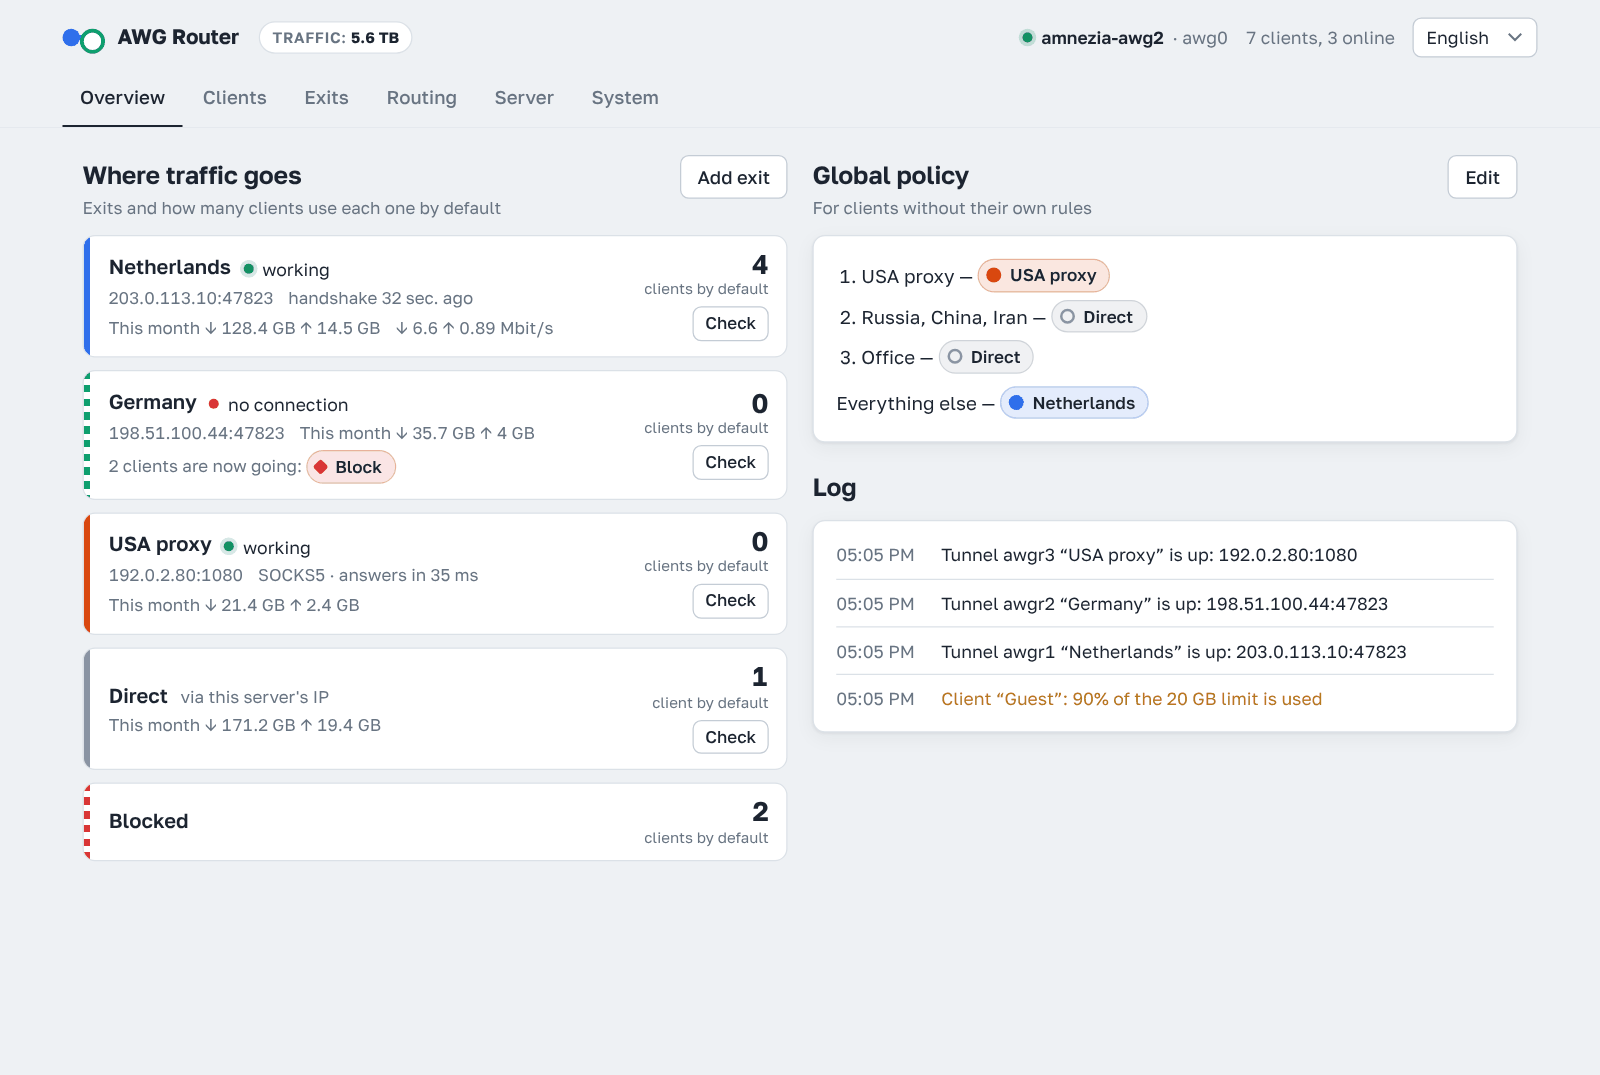
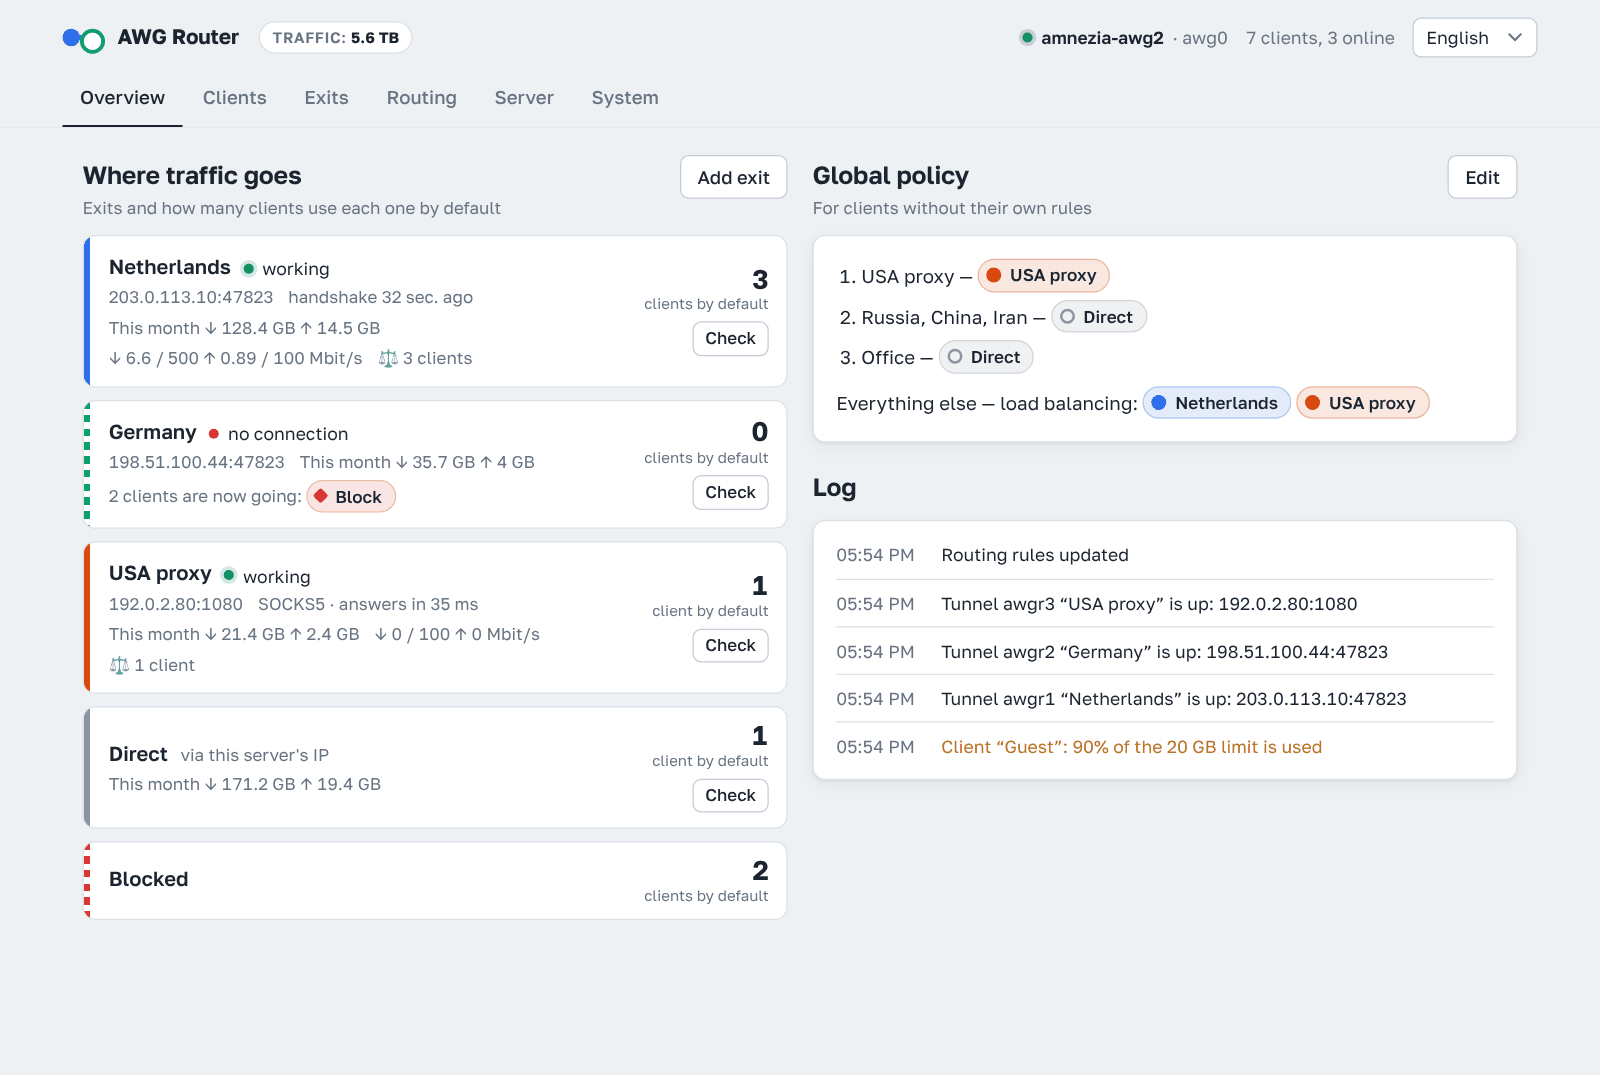
README screenshots show load balancing and speed limits
The screenshot demo set now balances across exits (Germany is down in the
demo and shows as such), gives Netherlands and the USA proxy speed limits,
gives Guest a personal limit and sets a common client limit. All frames are
regenerated with tools/screenshots/make.py; image captions in en / ru / zh /
fa mention the new parts.

diff --git a/tools/screenshots/make.py b/tools/screenshots/make.py
@@ -140,17 +140,19 @@ def build(api: Api) -> dict:
         return re.sub(r"(?m)^Endpoint\s*=.*$", f"Endpoint = {endpoint}", c)
 
     nl = api("POST", "upstreams", {"name": "Netherlands", "config": awg("10.9.0.2/32", "203.0.113.10:47823"),
-                                   "fallback": "direct", "quota_gb": 1000, "quota_action": "direct"})["id"]
+                                   "fallback": "direct", "quota_gb": 1000, "quota_action": "direct",
+                                   "rate_down": 500, "rate_up": 100})["id"]
     de = api("POST", "upstreams", {"name": "Germany", "config": awg("10.7.0.5/32", "198.51.100.44:47823"),
                                    "fallback": "block", "quota_gb": 300, "quota_action": "notify"})["id"]
     us = api("POST", "upstreams", {"name": "USA proxy", "config": "socks5://alice:wonderland@192.0.2.80:1080",
-                                   "fallback": "up:" + nl,
+                                   "fallback": "up:" + nl, "rate_down": 100,
                                    "routing": {"domains": "chatgpt.com\nopenai.com\nclaude.ai\nnetflix.com",
                                                "default": False}})["id"]
     office = api("POST", "lists", {"kind": "manual", "name": "Office",
                                    "source": "10.20.0.0/16\n192.168.50.0/24"})["id"]
     own = next(l["id"] for l in api("GET", "state")["lists"] if l["kind"] == "domains")
-    api("PUT", "routing", {"default": "up:" + nl, "rules": [
+    # балансировка вместо одного выхода по умолчанию; «напрямую» — если все её выходы лежат
+    api("PUT", "routing", {"default": "direct", "balance": {"on": True, "skip": []}, "rules": [
         {"lists": [own], "outbound": "up:" + us, "comment": "USA proxy"},
         {"lists": ["ru", "cn", "ir"], "outbound": "direct", "comment": "Local sites"},
         {"lists": [office], "outbound": "direct", "comment": "Office"}]})
@@ -159,7 +161,8 @@ def build(api: Api) -> dict:
     api("PUT", f"clients/{q('Living room TV')}", {"outbound": "up:" + de, "rules_mode": "custom",
                                                   "rules": [{"lists": ["ru"], "outbound": "direct"}]})
     api("PUT", f"limits/{q('Guest')}", {"expires": int(time.time()) + 86400 + 3600, "quota_gb": 20,
-                                        "period": "month"})
+                                        "period": "month", "rate_down": 10, "rate_up": 5})
+    api("PUT", "settings", {"shaping": {"down": 900, "up": 200}})
     api("PUT", f"limits/{q('Anna MacBook')}", {"quota_gb": 150, "period": "month"})
     return {"pk": pk, "nl": nl, "de": de, "us": us}
 

diff --git a/README.fa.md b/README.fa.md
@@ -76,8 +76,8 @@
 - **بررسی مسیر** نشان میدهد ترافیک به یک IP یا دامنه از کدام راه میرود.
 
 <p align="center">
-  <img src="docs/screenshots/exits.png" alt="خروجیها: ترافیک هر خروجی و مستقیم، سقف ماهانه" width="860">
-  <img src="docs/screenshots/routing.png" alt="مسیریابی: قانونها، خروجی پیشفرض و فهرستها" width="860">
+  <img src="docs/screenshots/exits.png" alt="خروجیها: ترافیک هر خروجی و مستقیم، سقف ماهانه، سرعت فعلی و محدودیت سرعت" width="860">
+  <img src="docs/screenshots/routing.png" alt="مسیریابی: قانونها، توزیع بار بین خروجیها و فهرستها" width="860">
 </p>
 
 **پنل**

diff --git a/README.md b/README.md
@@ -71,8 +71,8 @@ Details are in [How routing works](#how-routing-works).
 - **Route check** shows which way an IP or domain would go.
 
 <p align="center">
-  <img src="docs/screenshots/exits.png" alt="Exits: traffic per exit and direct, monthly limits" width="860">
-  <img src="docs/screenshots/routing.png" alt="Routing: rules, the default exit and lists" width="860">
+  <img src="docs/screenshots/exits.png" alt="Exits: traffic per exit and direct, monthly limits, speed now and speed limits" width="860">
+  <img src="docs/screenshots/routing.png" alt="Routing: rules, load balancing across exits and lists" width="860">
 </p>
 
 **Panel**
